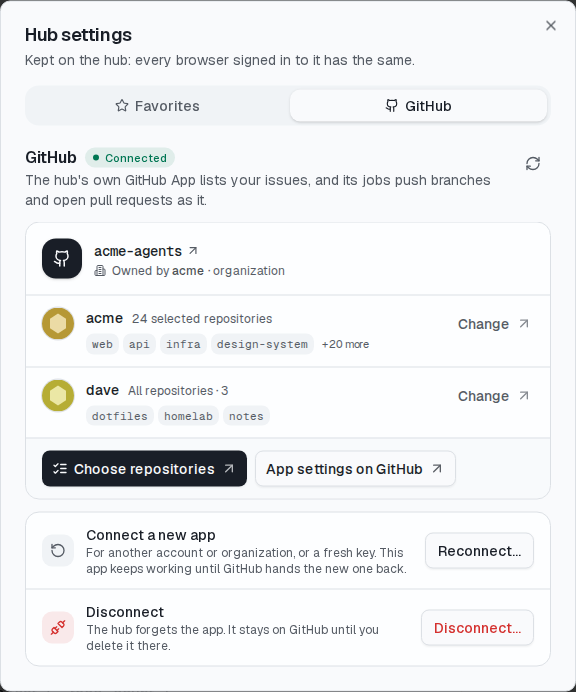
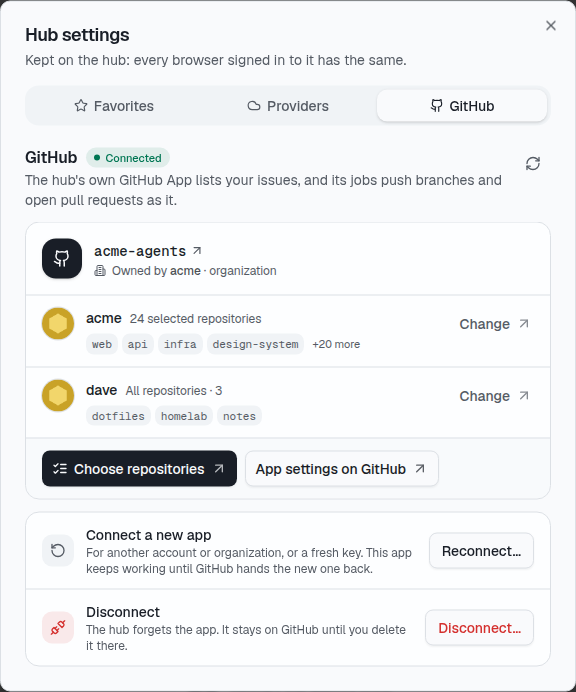
docs: the providers UI as it is now, and the hub settings screenshots with three tabs
chat-ui: the model menu's provider groups (monogram, host), its hint
line, the switching state and the toast. hub: each machine's
hub-providers.json in the files table. architecture: POST
/api/providers/check. hub-settings-favorites.png and
hub-settings-github.png again, now that the dialog has the Providers
tab; the provider screenshots again at 1x as capture-docs.mjs takes
the others.

diff --git a/docs/architecture.zh-TW.md b/docs/architecture.zh-TW.md
@@ -82,7 +82,7 @@ flowchart TB
 | `lib/native/procutil` | 子行程：行程群組（process group）與正常關閉流程 |
 | `lib/statedb/` | `--state-db` 的 SQLite 持久保存 |
 | `lib/instanceapi/` | AgentAPI 和同時監看多個 AgentAPI 的客戶端之間的約定：它是誰（`WebhookInstance`，出現在 webhook 事件、摘要和登記檔中，含它的 `AgentType`）、它的摘要、webhook 的外層格式和簽章（`Sign`、`Verify`），以及 hub 對每個實例顯示的狀態（`StateOf`）。它只匯入 `lib/agentstate` 和 `lib/util` |
-| `lib/hub/` | `agentapi hub serve`，建立在 `lib/instanceapi` 和 `lib/httpmw` 上，不經過伺服器：實例、頁面上設定的群組和釘選、每個實例這一列顯示的內容最近一次變動的時間，以及 hub 看到它工作的區段（`store.go`、`work.go`，由 `persist.go` 保存在檔案中）、最近一年逐小時的活動（`activity.go`、`activity.json`、`GET /api/activity`：工作時間，以及摘要 `spend.hours` 裡每個 scope 的花費）、我的最愛提示（`favorites.go`，`GET`／`PUT /api/favorites`，屬於 hub 的設定，保存在同一個檔案）、模型供應商（`providers.go`、`providers.json`、`GET`／`PUT /api/providers`，以及給 AgentAPI 用的 `POST /api/providers/sync`）、傳輸型別的 schema（`schema.go`、`hub-schema.json`，給頁面的型別用）、有簽章的 webhook 接收端（`webhook.go`）、每個實例的摘要串流（`watch.go`）、登入、瀏覽器的事件串流，以及到實例的代理（`hub.go`、`proxy.go`），還有主機怎麼加入（`join.go`：`GET /api/join` 和啟動 log 列出的位址）；使用說明見 [hub.zh-TW.md](hub.zh-TW.md) |
+| `lib/hub/` | `agentapi hub serve`，建立在 `lib/instanceapi` 和 `lib/httpmw` 上，不經過伺服器：實例、頁面上設定的群組和釘選、每個實例這一列顯示的內容最近一次變動的時間，以及 hub 看到它工作的區段（`store.go`、`work.go`，由 `persist.go` 保存在檔案中）、最近一年逐小時的活動（`activity.go`、`activity.json`、`GET /api/activity`：工作時間，以及摘要 `spend.hours` 裡每個 scope 的花費）、我的最愛提示（`favorites.go`，`GET`／`PUT /api/favorites`，屬於 hub 的設定，保存在同一個檔案）、模型供應商（`providers.go`、`providers.json`、`GET`／`PUT /api/providers`、給編輯器 Check connection 用的 `POST /api/providers/check`，以及給 AgentAPI 用的 `POST /api/providers/sync`）、傳輸型別的 schema（`schema.go`、`hub-schema.json`，給頁面的型別用）、有簽章的 webhook 接收端（`webhook.go`）、每個實例的摘要串流（`watch.go`）、登入、瀏覽器的事件串流，以及到實例的代理（`hub.go`、`proxy.go`），還有主機怎麼加入（`join.go`：`GET /api/join` 和啟動 log 列出的位址）；使用說明見 [hub.zh-TW.md](hub.zh-TW.md) |
 | `lib/dispatch/` | hub 的 issue 派工，由 `lib/hub` 掛上：有 launcher 回報的主機（`host.*` 事件；主機名稱綁定第一次帶來的 launcher token）、job 與各次 run 的花費（`task.*` 事件）和最近 50 則送給 agent 的訊息（`send`，來自 hub 的頁面、review 或 `/agent` 留言）、`POST /api/dispatch`（`start` 在 job 進入 `starting` 時就回應，hub 在背景呼叫 launcher，並記下這次啟動直到有結果；沒收到回應時從主機下一次回報接回）、GitHub App，保存在 `dispatch.json` 和 `github-app.json`。`Subscribe` 與 `Board` 讓 hub 的串流在每次變動後送出主機和 job（`dispatch` 事件）；規格見 [issue-dispatch.zh-TW.md](specs/issue-dispatch.zh-TW.md) |
 | `lib/host/` | `agentapi host`，每台主機上的 launcher：設定（設定檔的 `host` 區段）、它有或會 clone 的 repo、hub 每啟動一個 job 就建一個 git worktree 和一個 AgentAPI（結束後重新啟動，記在 `jobs.json`）、給 hub 呼叫且需要 token 的 API（`server.go`）、送給 hub 的 `host.*` 事件與 heartbeat（`hub.go`），以及經由 unix socket 交給 job 的 `git`、`gh` 的 GitHub token（`credentials.go`） |
 | `lib/github/` | hub 的 GitHub App，只依賴標準函式庫：以 manifest 註冊、App 的 JWT、限單一 repo（快取到到期前 5 分鐘）或整個安裝的 installation token，以及派工以 App 身分呼叫的 REST API |

diff --git a/docs/architecture.md b/docs/architecture.md
@@ -83,7 +83,7 @@ emitter. Handlers call the conversation and read state from the emitter.
 | `lib/native/procutil` | Child process groups and graceful shutdown |
 | `lib/statedb/` | SQLite persistence for `--state-db` |
 | `lib/instanceapi/` | The contract between an AgentAPI and the clients that watch many: who it is (`WebhookInstance`, in its webhook events, summary and registry entry, with its `AgentType`), its summary, the webhook envelope with its signature (`Sign`, `Verify`), and the state a hub shows of each instance (`StateOf`). It imports only `lib/agentstate` and `lib/util` |
-| `lib/hub/` | `agentapi hub serve`, over `lib/instanceapi` and `lib/httpmw` rather than the server: the instances, the groups and pins set on its page, when each last changed what its row shows and when the hub saw each working (`store.go`, `work.go`, kept in a file by `persist.go`), the activity of the last year hour by hour (`activity.go`, `activity.json`, `GET /api/activity`: the work, and each scope's spend from the summaries' `spend.hours`), the favorite prompts (`favorites.go`, `GET`/`PUT /api/favorites`, among the hub's settings in the same file), the model providers (`providers.go`, `providers.json`, `GET`/`PUT /api/providers`, and `POST /api/providers/sync` for the AgentAPIs), the schema of its wire types (`schema.go`, `hub-schema.json`, for the page's types), the signed webhook receiver (`webhook.go`), each instance's summary stream (`watch.go`), sign-in, the browser's event stream and the proxy to the instances (`hub.go`, `proxy.go`), where machines join it (`join.go`: its addresses for `GET /api/join` and the startup log); the user guide is [hub.md](hub.md) |
+| `lib/hub/` | `agentapi hub serve`, over `lib/instanceapi` and `lib/httpmw` rather than the server: the instances, the groups and pins set on its page, when each last changed what its row shows and when the hub saw each working (`store.go`, `work.go`, kept in a file by `persist.go`), the activity of the last year hour by hour (`activity.go`, `activity.json`, `GET /api/activity`: the work, and each scope's spend from the summaries' `spend.hours`), the favorite prompts (`favorites.go`, `GET`/`PUT /api/favorites`, among the hub's settings in the same file), the model providers (`providers.go`, `providers.json`, `GET`/`PUT /api/providers`, `POST /api/providers/check` for the editor's Check connection, and `POST /api/providers/sync` for the AgentAPIs), the schema of its wire types (`schema.go`, `hub-schema.json`, for the page's types), the signed webhook receiver (`webhook.go`), each instance's summary stream (`watch.go`), sign-in, the browser's event stream and the proxy to the instances (`hub.go`, `proxy.go`), where machines join it (`join.go`: its addresses for `GET /api/join` and the startup log); the user guide is [hub.md](hub.md) |
 | `lib/dispatch/` | The hub's issue dispatch, which `lib/hub` mounts: the machines whose launchers report (`host.*` events; each name pinned to the launcher token it first came with), the jobs with their runs' costs (`task.*` events) and the last 50 messages their agents were sent (`send`, from the hub's page, a review or an `/agent` comment), `POST /api/dispatch` (a start answers once its job is `starting`; the hub calls the launcher in the background and keeps the start until it ends, adopting it from the machine's next report if the answer was lost), the GitHub App, kept in `dispatch.json` and `github-app.json`. `Subscribe` and `Board` give the hub's stream the machines and jobs after each change (its `dispatch` event); the spec is [issue-dispatch.zh-TW.md](specs/issue-dispatch.zh-TW.md) |
 | `lib/host/` | `agentapi host`, the launcher on each machine: its settings (the `host` section of the config file), the repositories it has or clones, a git worktree and an AgentAPI for each job the hub starts (restarted after it exits, kept in `jobs.json`), its API for the hub behind its token (`server.go`), its `host.*` events and heartbeats to the hub (`hub.go`), and each job's GitHub token over a unix socket for its `git` and `gh` (`credentials.go`) |
 | `lib/github/` | The hub's GitHub App, with no dependency beyond the standard library: registering it from a manifest, its JWT, installation tokens for one repository (kept until five minutes before they expire) or all, and the REST calls the dispatch makes as the app |

diff --git a/docs/chat-ui.zh-TW.md b/docs/chat-ui.zh-TW.md
@@ -209,11 +209,12 @@ Pi 沒有權限模式，所以它的工具列沒有模式選單。
 ![Claude Code 的模型選單：先是它自己的模型，接著是來自 hub 的兩個供應商，各自標出名稱和主機](screenshots/model-providers.png)
 
 Claude Code 和 Codex 的選單接著會列出每個[模型供應商](../README.zh-TW.md#模型供應商)的模型，放在
-附雲朵圖示的供應商名稱下；hub 保存的供應商會標上 **hub**。選其中一個模型，agent 就換到那個供應商；
-選回 agent 自己的模型就換回來。對話會接續下去：Claude Code 從下一次 API 呼叫起換過去，換回來時則以
-同一個工作階段重新啟動；Codex 會重新啟動，開一個新的 thread，把對話的訊息以文字帶過去。回合進行中，
-不能做需要重新啟動 agent 的切換。用供應商時，按鈕上的大腦圖示會換成雲朵。沒有列出任何模型的供應商
-不會出現在選單裡。
+供應商的字母圖示、名稱和主機下；hub 保存的供應商會標上 **hub**。這些模型下方有一行說明，告訴你這個
+agent 切換時會怎麼做。選供應商的模型，agent 就換到那個供應商；選回 agent 自己的模型就換回來。對話會
+接續下去：Claude Code 從下一次 API 呼叫起換過去，換回來時則以同一個工作階段重新啟動；Codex 會重新啟動，
+開一個新的 thread，把對話的訊息以文字帶過去。切換進行中，按鈕會顯示 **Switching to …**，完成後會跳出
+提示，說明 agent 現在用的是哪個模型。回合進行中，不能做需要重新啟動 agent 的切換。用供應商時，按鈕上的
+大腦圖示會換成雲朵，模型後面也會顯示供應商名稱。沒有列出任何模型的供應商不會出現在選單裡。
 
 ### Context 與用量限制
 

diff --git a/docs/chat-ui.md b/docs/chat-ui.md
@@ -230,13 +230,15 @@ model supports. Codex takes a new model or effort with its next turn.
 ![The model menu of Claude Code: its own models, then those of two providers from the hub, each under its name and host](screenshots/model-providers.png)
 
 For Claude Code and Codex, the menu then lists the models of each
-[model provider](../README.md#model-providers), under the provider's name with a cloud; a provider
-the hub keeps is marked **hub**. Picking one switches the agent to that provider, and picking one of
-the agent's own models switches it back. The conversation goes on: Claude Code switches from its
-next API call, and starts again on its session to go back; Codex starts again in a new thread that
-gets the conversation's messages as text. A switch that starts the agent again can't be made during
-a turn. On a provider, the button shows a cloud in place of the brain. A provider that lists no
-models isn't in the menu.
+[model provider](../README.md#model-providers), under the provider's monogram, name and host; a
+provider the hub keeps is marked **hub**. A line under them says what a switch does with this
+agent. Picking a provider's model switches the agent to that provider, and picking one of the
+agent's own models switches it back. The conversation goes on: Claude Code switches from its next
+API call, and starts again on its session to go back; Codex starts again in a new thread that gets
+the conversation's messages as text. While a switch runs, the button says **Switching to …**, and a
+toast says which model the agent is on once it is done. A switch that starts the agent again can't
+be made during a turn. On a provider, the button shows a cloud in place of the brain, and the
+provider's name after the model. A provider that lists no models isn't in the menu.
 
 ### Context and usage limits
 

diff --git a/docs/screenshots/README.md b/docs/screenshots/README.md
@@ -48,13 +48,16 @@ and the list beside it kept from the first.
 organization installed on `acme` (24 selected repositories) and on a user, `dave` (all three of
 his), with the accounts' pictures drawn locally in place of GitHub's. Since the settings dialog
 has tabs, `hub-settings-favorites.png` was taken the same way, with the favorites
-`capture-docs.mjs` puts on its hub; the script takes it again as before.
+`capture-docs.mjs` puts on its hub; the script takes it again as before. Both were taken again once
+the dialog had a third tab, Providers, from a build of the `feat/custom-providers` branch with the
+same fixtures.
 
 `model-providers.png`, `hub-settings-providers.png` and `hub-settings-provider-check.png` came from
 a development build of the `feat/custom-providers` branch, with a hub that keeps two providers,
 `gateway` (LiteLLM gateway, three models, a key) and `local` (Local vLLM, one model), and a fake
-provider that lists six models for the check. They aren't part of `capture-docs.mjs`; like the
-others they are in the light theme, at 2200 × 1800.
+provider that lists six models for the check. They aren't part of `capture-docs.mjs`, but are taken
+as it takes the others: in the light theme at 1x, the model menu with the composer as
+`model-settings.png`, and the settings dialog as `hub-settings-favorites.png`.
 
 ## Gallery
 

diff --git a/docs/hub.md b/docs/hub.md
@@ -1119,6 +1119,7 @@ failed request answers `{"code": …, "message": …, "error": …}`: `code` is 
 | `~/.agentapi/hub/dispatch.json` | `agentapi hub serve` | The [issue dispatch's](#issues) machines with their launchers' tokens, and the jobs: their runs, costs and last 50 messages |
 | `~/.agentapi/hub/github-app.json` | `agentapi hub serve` | The hub's GitHub App and its private key |
 | `~/.agentapi/hub/providers.json` | `agentapi hub serve` | The [model providers](#model-providers) and their keys (0600) |
+| `~/.agentapi/hub-providers.json` | `agentapi server` | On each machine, beside its config file: the providers the hub last answered, sealed with the hub's secret, which stand in at the next start until the hub answers |
 
 `instances.json` is `{"version": 1, "instances": [...]}`. Hubs of 2.2 and earlier wrote, and read,
 only the array: the hub reads that too, but such a hub sets the newer file aside as damaged and
